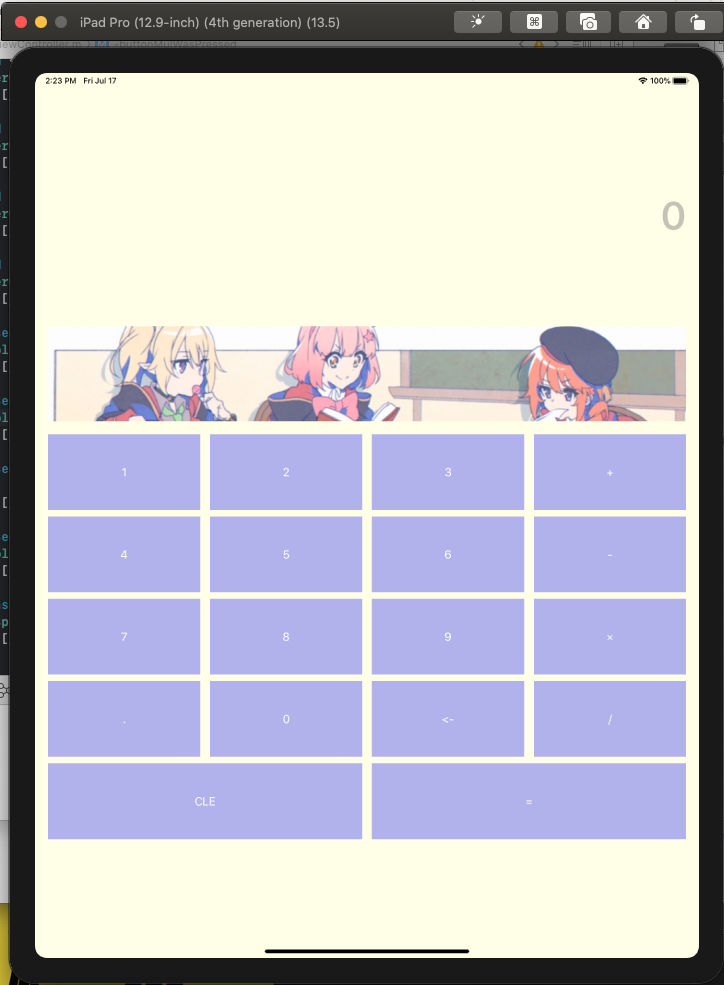
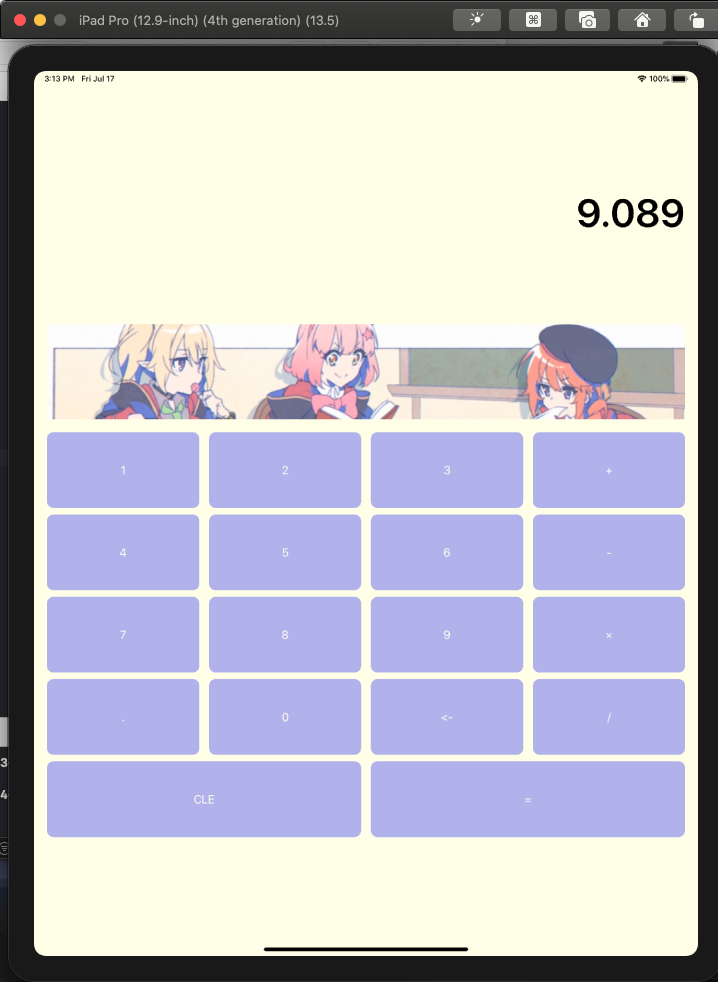
按钮部分圆角

diff --git a/iosCal/CalView.m b/iosCal/CalView.m
@@ -171,6 +171,8 @@
         [button setTitle:@"1" forState:UIControlStateNormal];
         button.backgroundColor = [UIColor blueColor];
         [button addTarget:self action:@selector(actionButton1:) forControlEvents:UIControlEventTouchUpInside];
+        button.layer.cornerRadius = 10;
+        button.layer.masksToBounds = YES;
         [self addSubview:button];
         _buttonOne = button;
     }
@@ -204,6 +206,8 @@
         //[button setTitleColor:[UIColor blackColor] forState:UIControlStateNormal];
         button.backgroundColor = [UIColor blueColor];
         [button addTarget:self action:@selector(actionButton2:) forControlEvents:UIControlEventTouchUpInside];
+        button.layer.cornerRadius = 10;
+        button.layer.masksToBounds = YES;
         [self addSubview:button];
         _buttonTwo = button;
     }
@@ -222,6 +226,8 @@
         [button setTitle:@"3" forState:UIControlStateNormal];
         button.backgroundColor = [UIColor blueColor];
         [button addTarget:self action:@selector(actionButton3:) forControlEvents:UIControlEventTouchUpInside];
+        button.layer.cornerRadius = 10;
+        button.layer.masksToBounds = YES;
         [self addSubview:button];
         _buttonThree = button;
     }
@@ -241,6 +247,8 @@
         [button setTitle:@"+" forState:UIControlStateNormal];
         button.backgroundColor = [UIColor blueColor];
         [button addTarget:self action:@selector(actionButtonAdd:) forControlEvents:UIControlEventTouchUpInside];
+        button.layer.cornerRadius = 10;
+        button.layer.masksToBounds = YES;
         [self addSubview:button];
         _buttonAdd = button;
     }
@@ -260,6 +268,8 @@
         [button setTitle:@"4" forState:UIControlStateNormal];
         button.backgroundColor = [UIColor blueColor];
         [button addTarget:self action:@selector(actionButton4:) forControlEvents:UIControlEventTouchUpInside];
+        button.layer.cornerRadius = 10;
+        button.layer.masksToBounds = YES;
         [self addSubview:button];
         _buttonFour = button;
     }
@@ -279,6 +289,8 @@
         [button setTitle:@"5" forState:UIControlStateNormal];
         button.backgroundColor = [UIColor blueColor];
         [button addTarget:self action:@selector(actionButton5:) forControlEvents:UIControlEventTouchUpInside];
+        button.layer.cornerRadius = 10;
+        button.layer.masksToBounds = YES;
         [self addSubview:button];
         _buttonFive = button;
     }
@@ -298,6 +310,8 @@
         [button setTitle:@"6" forState:UIControlStateNormal];
         button.backgroundColor = [UIColor blueColor];
         [button addTarget:self action:@selector(actionButton6:) forControlEvents:UIControlEventTouchUpInside];
+        button.layer.cornerRadius = 10;
+        button.layer.masksToBounds = YES;
         [self addSubview:button];
         _buttonSix = button;
     }
@@ -317,6 +331,8 @@
         [button setTitle:@"-" forState:UIControlStateNormal];
         button.backgroundColor = [UIColor blueColor];
         [button addTarget:self action:@selector(actionButtonSub:) forControlEvents:UIControlEventTouchUpInside];
+        button.layer.cornerRadius = 10;
+        button.layer.masksToBounds = YES;
         [self addSubview:button];
         _buttonSub = button;
     }
@@ -336,6 +352,8 @@
         [button setTitle:@"7" forState:UIControlStateNormal];
         button.backgroundColor = [UIColor blueColor];
         [button addTarget:self action:@selector(actionButton7:) forControlEvents:UIControlEventTouchUpInside];
+        button.layer.cornerRadius = 10;
+        button.layer.masksToBounds = YES;
         [self addSubview:button];
         _buttonSeven = button;
     }
@@ -355,6 +373,8 @@
         [button setTitle:@"8" forState:UIControlStateNormal];
         button.backgroundColor = [UIColor blueColor];
         [button addTarget:self action:@selector(actionButton8:) forControlEvents:UIControlEventTouchUpInside];
+        button.layer.cornerRadius = 10;
+        button.layer.masksToBounds = YES;
         [self addSubview:button];
         _buttonEight = button;
     }
@@ -374,6 +394,8 @@
         [button setTitle:@"9" forState:UIControlStateNormal];
         button.backgroundColor = [UIColor blueColor];
         [button addTarget:self action:@selector(actionButton9:) forControlEvents:UIControlEventTouchUpInside];
+        button.layer.cornerRadius = 10;
+        button.layer.masksToBounds = YES;
         [self addSubview:button];
         _buttonNine = button;
     }
@@ -393,6 +415,8 @@
         [button setTitle:@"×" forState:UIControlStateNormal];
         button.backgroundColor = [UIColor blueColor];
         [button addTarget:self action:@selector(actionButtonMul:) forControlEvents:UIControlEventTouchUpInside];
+        button.layer.cornerRadius = 10;
+        button.layer.masksToBounds = YES;
         [self addSubview:button];
         _buttonMul = button;
     }
@@ -412,6 +436,8 @@
         [button setTitle:@"CLE" forState:UIControlStateNormal];
         button.backgroundColor = [UIColor blueColor];
         [button addTarget:self action:@selector(actionButtonCle:) forControlEvents:UIControlEventTouchUpInside];
+        button.layer.cornerRadius = 10;
+        button.layer.masksToBounds = YES;
         [self addSubview:button];
         _buttonCle = button;
     }
@@ -431,6 +457,8 @@
         [button setTitle:@"0" forState:UIControlStateNormal];
         button.backgroundColor = [UIColor blueColor];
         [button addTarget:self action:@selector(actionButton0:) forControlEvents:UIControlEventTouchUpInside];
+        button.layer.cornerRadius = 10;
+        button.layer.masksToBounds = YES;
         [self addSubview:button];
         _buttonZero = button;
     }
@@ -450,6 +478,8 @@
         [button setTitle:@"=" forState:UIControlStateNormal];
         button.backgroundColor = [UIColor blueColor];
         [button addTarget:self action:@selector(actionButtonEqu:) forControlEvents:UIControlEventTouchUpInside];
+        button.layer.cornerRadius = 10;
+        button.layer.masksToBounds = YES;
         [self addSubview:button];
         _buttonEqu = button;
     }
@@ -469,6 +499,8 @@
         [button setTitle:@"." forState:UIControlStateNormal];
         button.backgroundColor = [UIColor blueColor];
         [button addTarget:self action:@selector(actionButtonDot:) forControlEvents:UIControlEventTouchUpInside];
+        button.layer.cornerRadius = 10;
+        button.layer.masksToBounds = YES;
         [self addSubview:button];
         _buttonDot = button;
     }
@@ -485,6 +517,8 @@
         button.alpha = 0.3;
         [button setTitle:@"/" forState:UIControlStateNormal];
         button.backgroundColor = [UIColor blueColor];
+        button.layer.cornerRadius = 10;
+        button.layer.masksToBounds = YES;
         [self addSubview:button];
         _buttondiv = button;
     }
@@ -497,6 +531,8 @@
         button.alpha = 0.3;
         [button setTitle:@"<-" forState:UIControlStateNormal];
         button.backgroundColor = [UIColor blueColor];
+        button.layer.cornerRadius = 10;
+        button.layer.masksToBounds = YES;
         [self addSubview:button];
         _buttonBack = button;
     }
